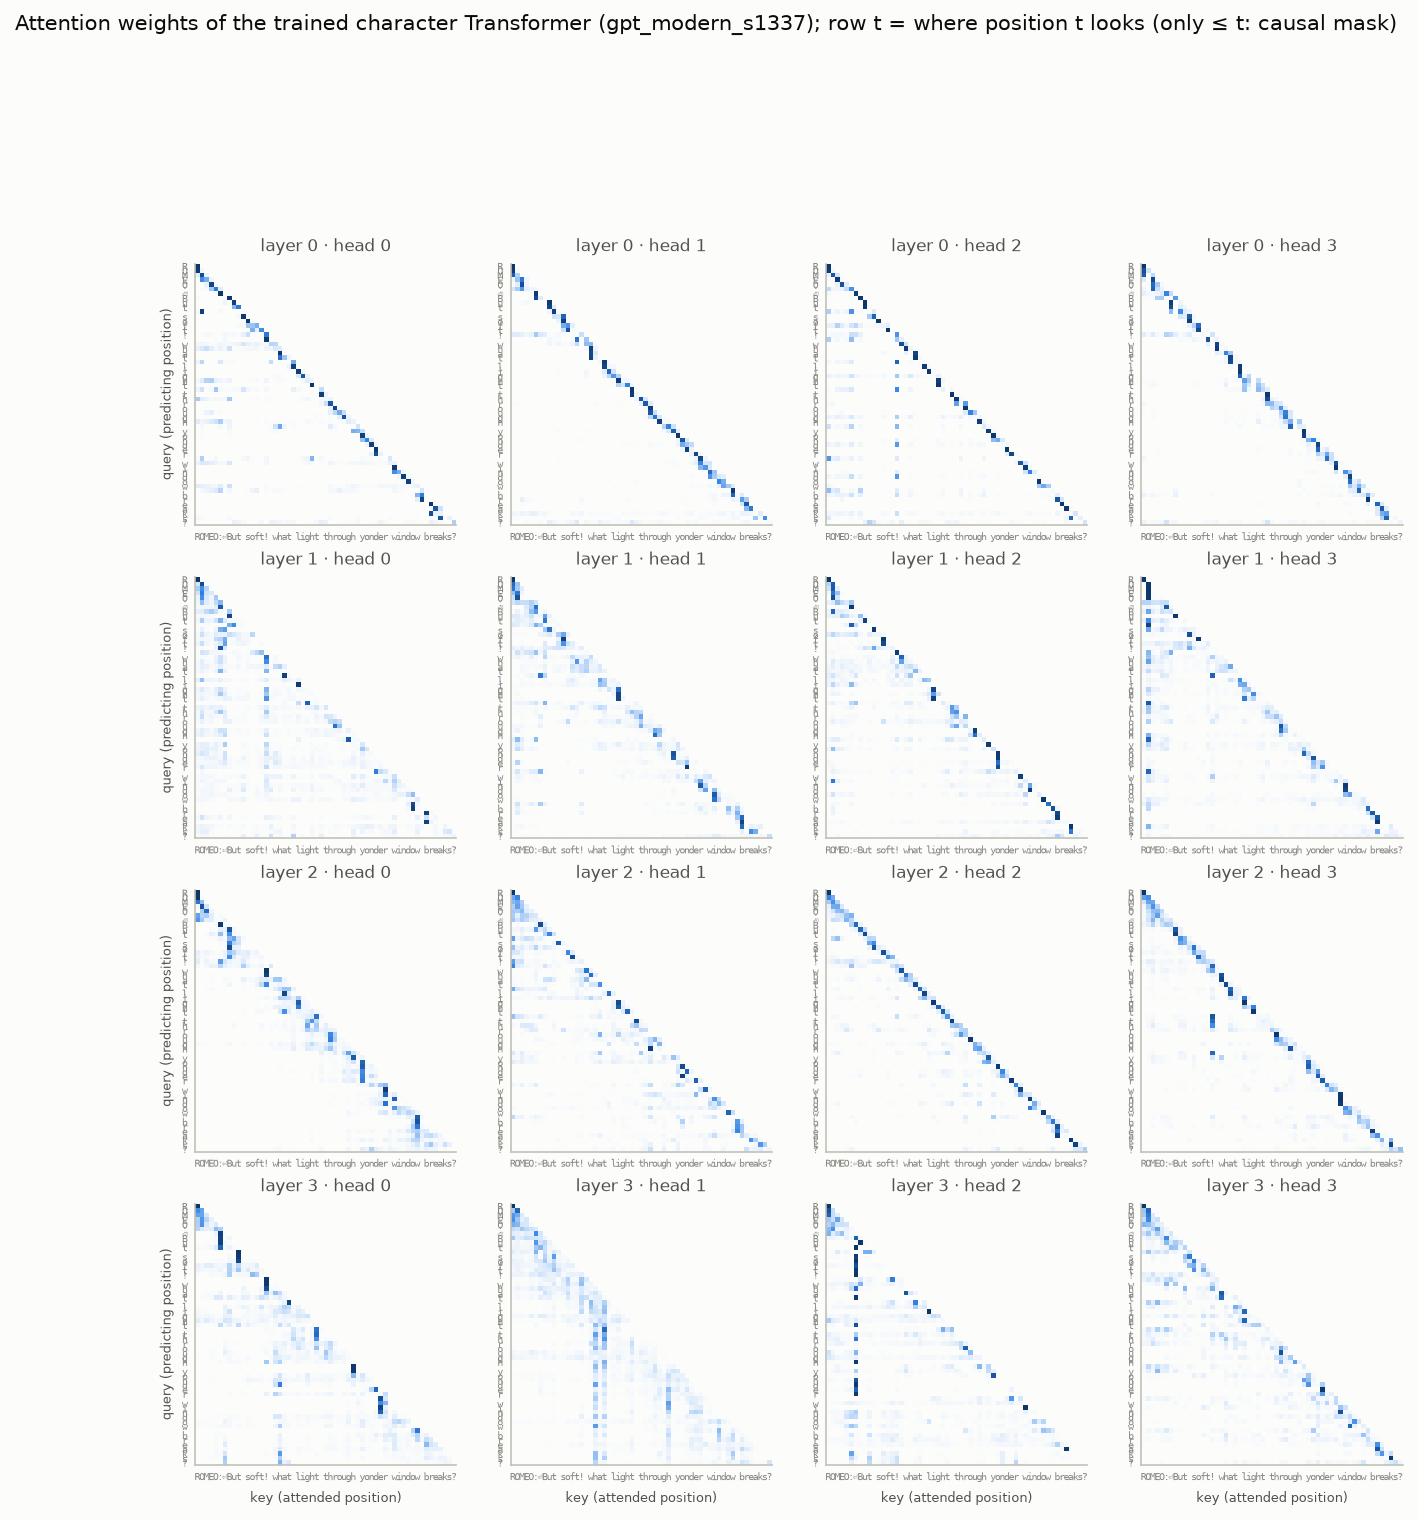
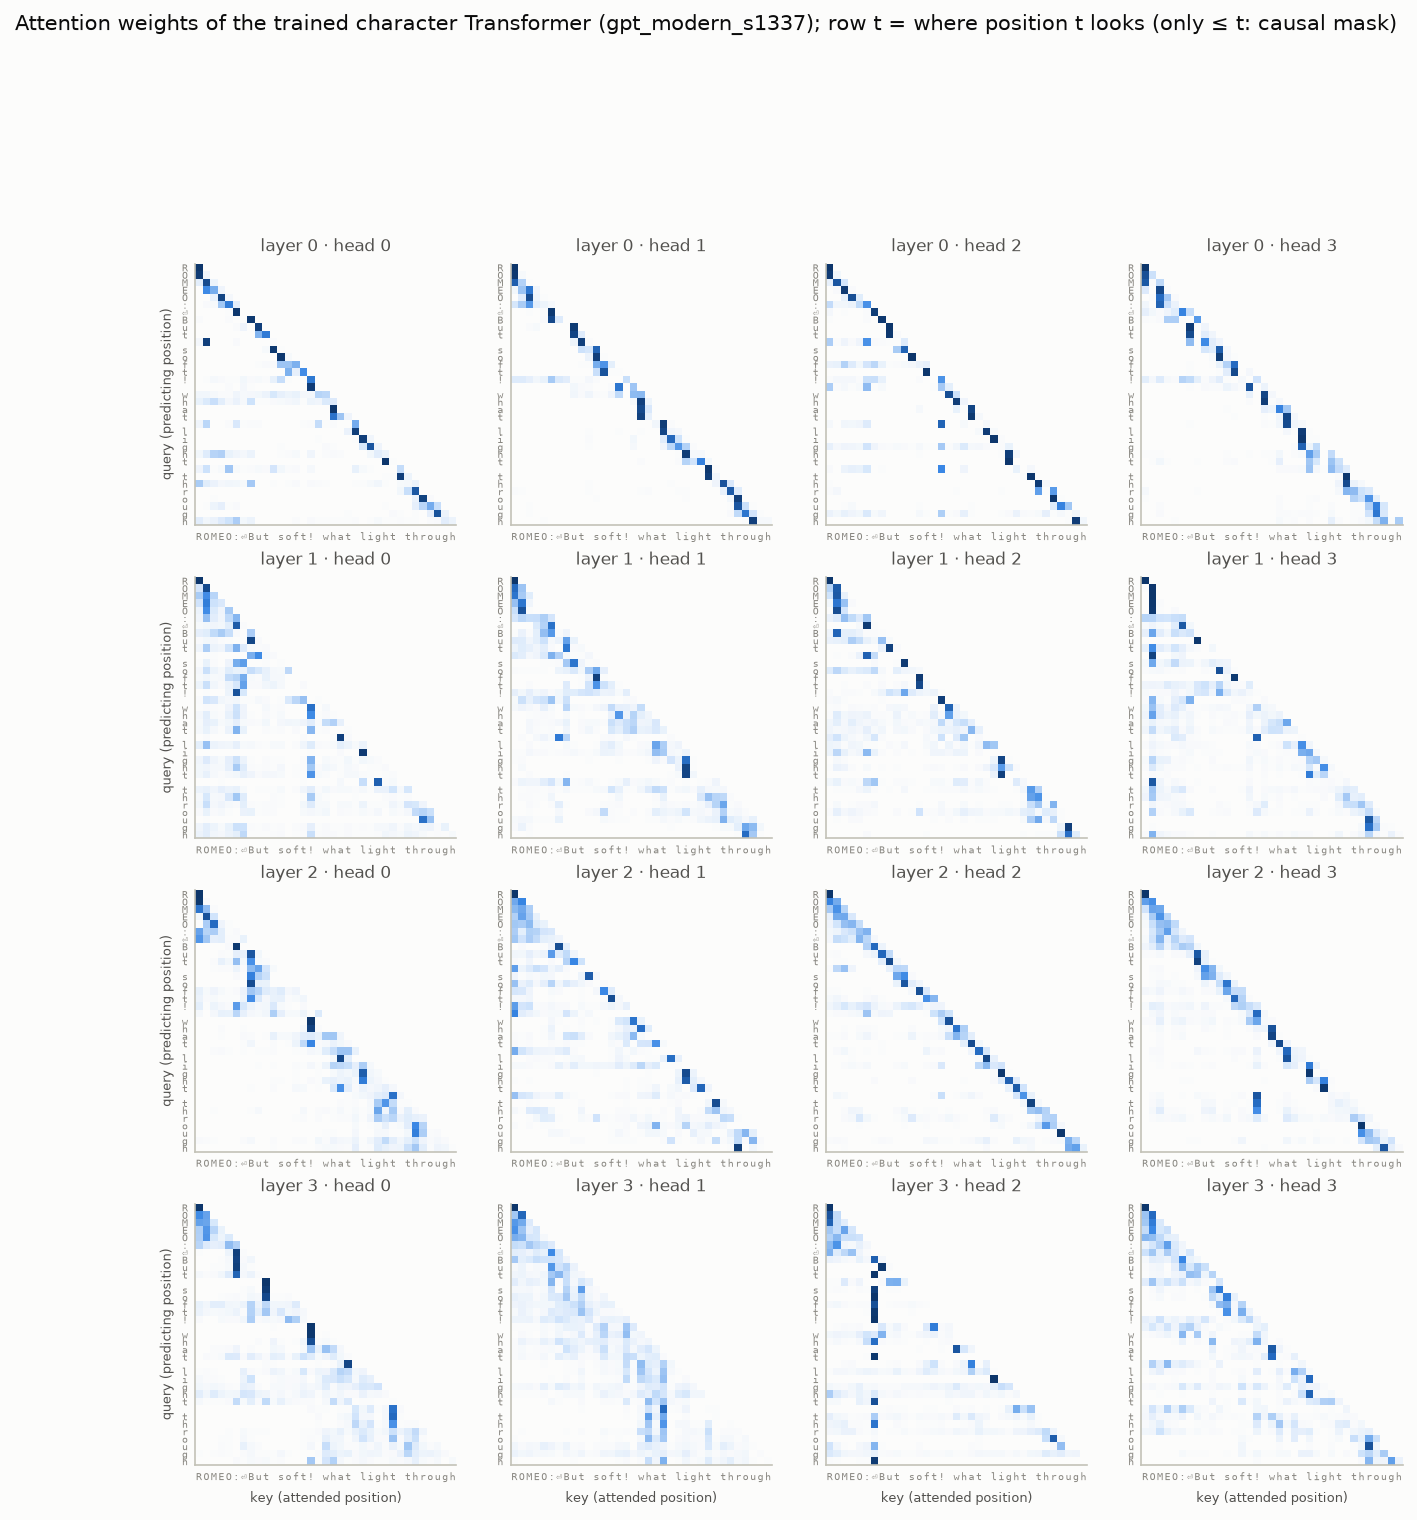
Add model-comparison figure, LSTM-baseline table and clearer attention figures
- figures/model_comparison.png + scripts/plot_model_comparison.py: final
  validation bpb per model with labelled axes (mean +/- std, single runs)
- results/task2_char_models/summary_vs_lstm.md: paired tests against the
  2x256 LSTM
- attention figures regenerated on the first 35 characters of each text

diff --git a/scripts/plot_model_comparison.py b/scripts/plot_model_comparison.py
@@ -1,0 +1,68 @@
+"""HW1 Task 2: final validation bits-per-byte per model (mean +/- std over seeds), as a dot plot.
+
+Reads the per-run summary.csv written by `python -m nanolm.analyze` for the char_models sweep.
+A dot plot is used instead of bars because the differences are small next to the absolute value,
+and a dot plot does not need an axis that starts at zero.
+
+    python scripts/plot_model_comparison.py <path to summary.csv> [output.png]
+"""
+import sys
+from pathlib import Path
+
+import matplotlib
+
+matplotlib.use("Agg")
+import matplotlib.pyplot as plt
+import pandas as pd
+
+SURFACE, INK, INK2, GRID, BLUE = "#fcfcfb", "#0b0b0b", "#52514e", "#e4e3df", "#2a78d6"
+LABELS = {
+    "gpt_modern": "Transformer, modern 4×256",
+    "gpt_textbook": "Transformer, GPT-2 style 4×256",
+    "lstm": "LSTM 2×256",
+    "lstm_512": "LSTM 2×512",
+    "gru": "GRU 2×256",
+    "rnn": "vanilla RNN 2×256",
+}
+
+
+def main(csv_path: str, out_path: str):
+    df = pd.read_csv(csv_path)
+    stats = (df.groupby("name").agg(mean=("val_bpb", "mean"), std=("val_bpb", "std"), n=("val_bpb", "count"),
+                                    params=("params", "first"), tokens=("tokens_seen", "first"))
+             .sort_values("mean", ascending=False))            # best model ends up at the top
+    print(stats.to_string(float_format=lambda v: f"{v:.4f}"))
+
+    plt.rcParams.update({"font.family": "sans-serif", "font.size": 10, "axes.edgecolor": GRID,
+                         "axes.labelcolor": INK2, "xtick.color": INK2, "ytick.color": INK})
+    fig, ax = plt.subplots(figsize=(7.5, 3.6), facecolor=SURFACE)
+    ax.set_facecolor(SURFACE)
+    y = range(len(stats))
+    ax.errorbar(stats["mean"], y, xerr=stats["std"], fmt="o", color=BLUE, markersize=8,
+                markeredgecolor=SURFACE, markeredgewidth=1.5, capsize=4, linewidth=2, zorder=3)
+    for i, name in enumerate(stats.index):                     # the individual seeds
+        runs = df[df.name == name]
+        ax.scatter(runs.val_bpb, [i] * len(runs), s=12, color=INK2, alpha=0.6, linewidths=0, zorder=4)
+    for i, (name, r) in enumerate(stats.iterrows()):
+        ax.annotate(f"{r['mean']:.3f} ± {r['std']:.3f}", (r["mean"] + r["std"], i), textcoords="offset points",
+                    xytext=(8, 0), va="center", fontsize=9, color=INK2)
+    ax.set_yticks(list(y))
+    ax.set_yticklabels([f"{LABELS.get(n, n)}  ({stats.loc[n, 'params'] / 1e6:.2f}M)" for n in stats.index])
+    ax.set_xlabel("final validation bits per byte (lower is better)")
+    n_seeds, tokens = int(stats["n"].iloc[0]), stats["tokens"].iloc[0] / 1e6
+    ax.set_title(f"Final validation bpb per model — Tiny Shakespeare, characters\n"
+                 f"{tokens:.1f}M training tokens per run; dot = mean, bar = ± std over {n_seeds} seeds, "
+                 f"small dots = single runs; (…M) = parameters", fontsize=10, color=INK, loc="left")
+    ax.grid(axis="x", color=GRID, linewidth=0.8)
+    ax.spines[["top", "right", "left"]].set_visible(False)
+    ax.tick_params(length=0)
+    ax.margins(x=0.12, y=0.12)
+    Path(out_path).parent.mkdir(parents=True, exist_ok=True)
+    fig.savefig(out_path, dpi=200, bbox_inches="tight", facecolor=SURFACE)
+    print(f"wrote {out_path}")
+
+
+if __name__ == "__main__":
+    if len(sys.argv) < 2:
+        sys.exit(__doc__)
+    main(sys.argv[1], sys.argv[2] if len(sys.argv) > 2 else "figures/model_comparison.png")

diff --git a/results/task2_char_models/summary_vs_lstm.md b/results/task2_char_models/summary_vs_lstm.md
@@ -1,0 +1,12 @@
+metric: `val_bpb` (lower is better)
+
+```
+              n_seeds  val_bpb_mean  val_bpb_std  params_M  train_min  delta_vs_lstm  paired_p
+name                                                                                          
+gpt_modern          2        2.1159       0.0010    3.1626     3.8542        -0.0213    0.1222
+lstm                2        2.1371       0.0049    1.0698     1.2272         0.0000       NaN
+gru                 2        2.1597       0.0017    0.8067     3.6685         0.0226    0.1292
+lstm_512            2        2.1692       0.0121    4.2368     2.8697         0.0321    0.2277
+gpt_textbook        2        2.1852       0.0016    3.4383     3.5939         0.0481    0.0600
+rnn                 2        2.4384       0.0086    0.2803     2.4045         0.3013    0.0201
+```
